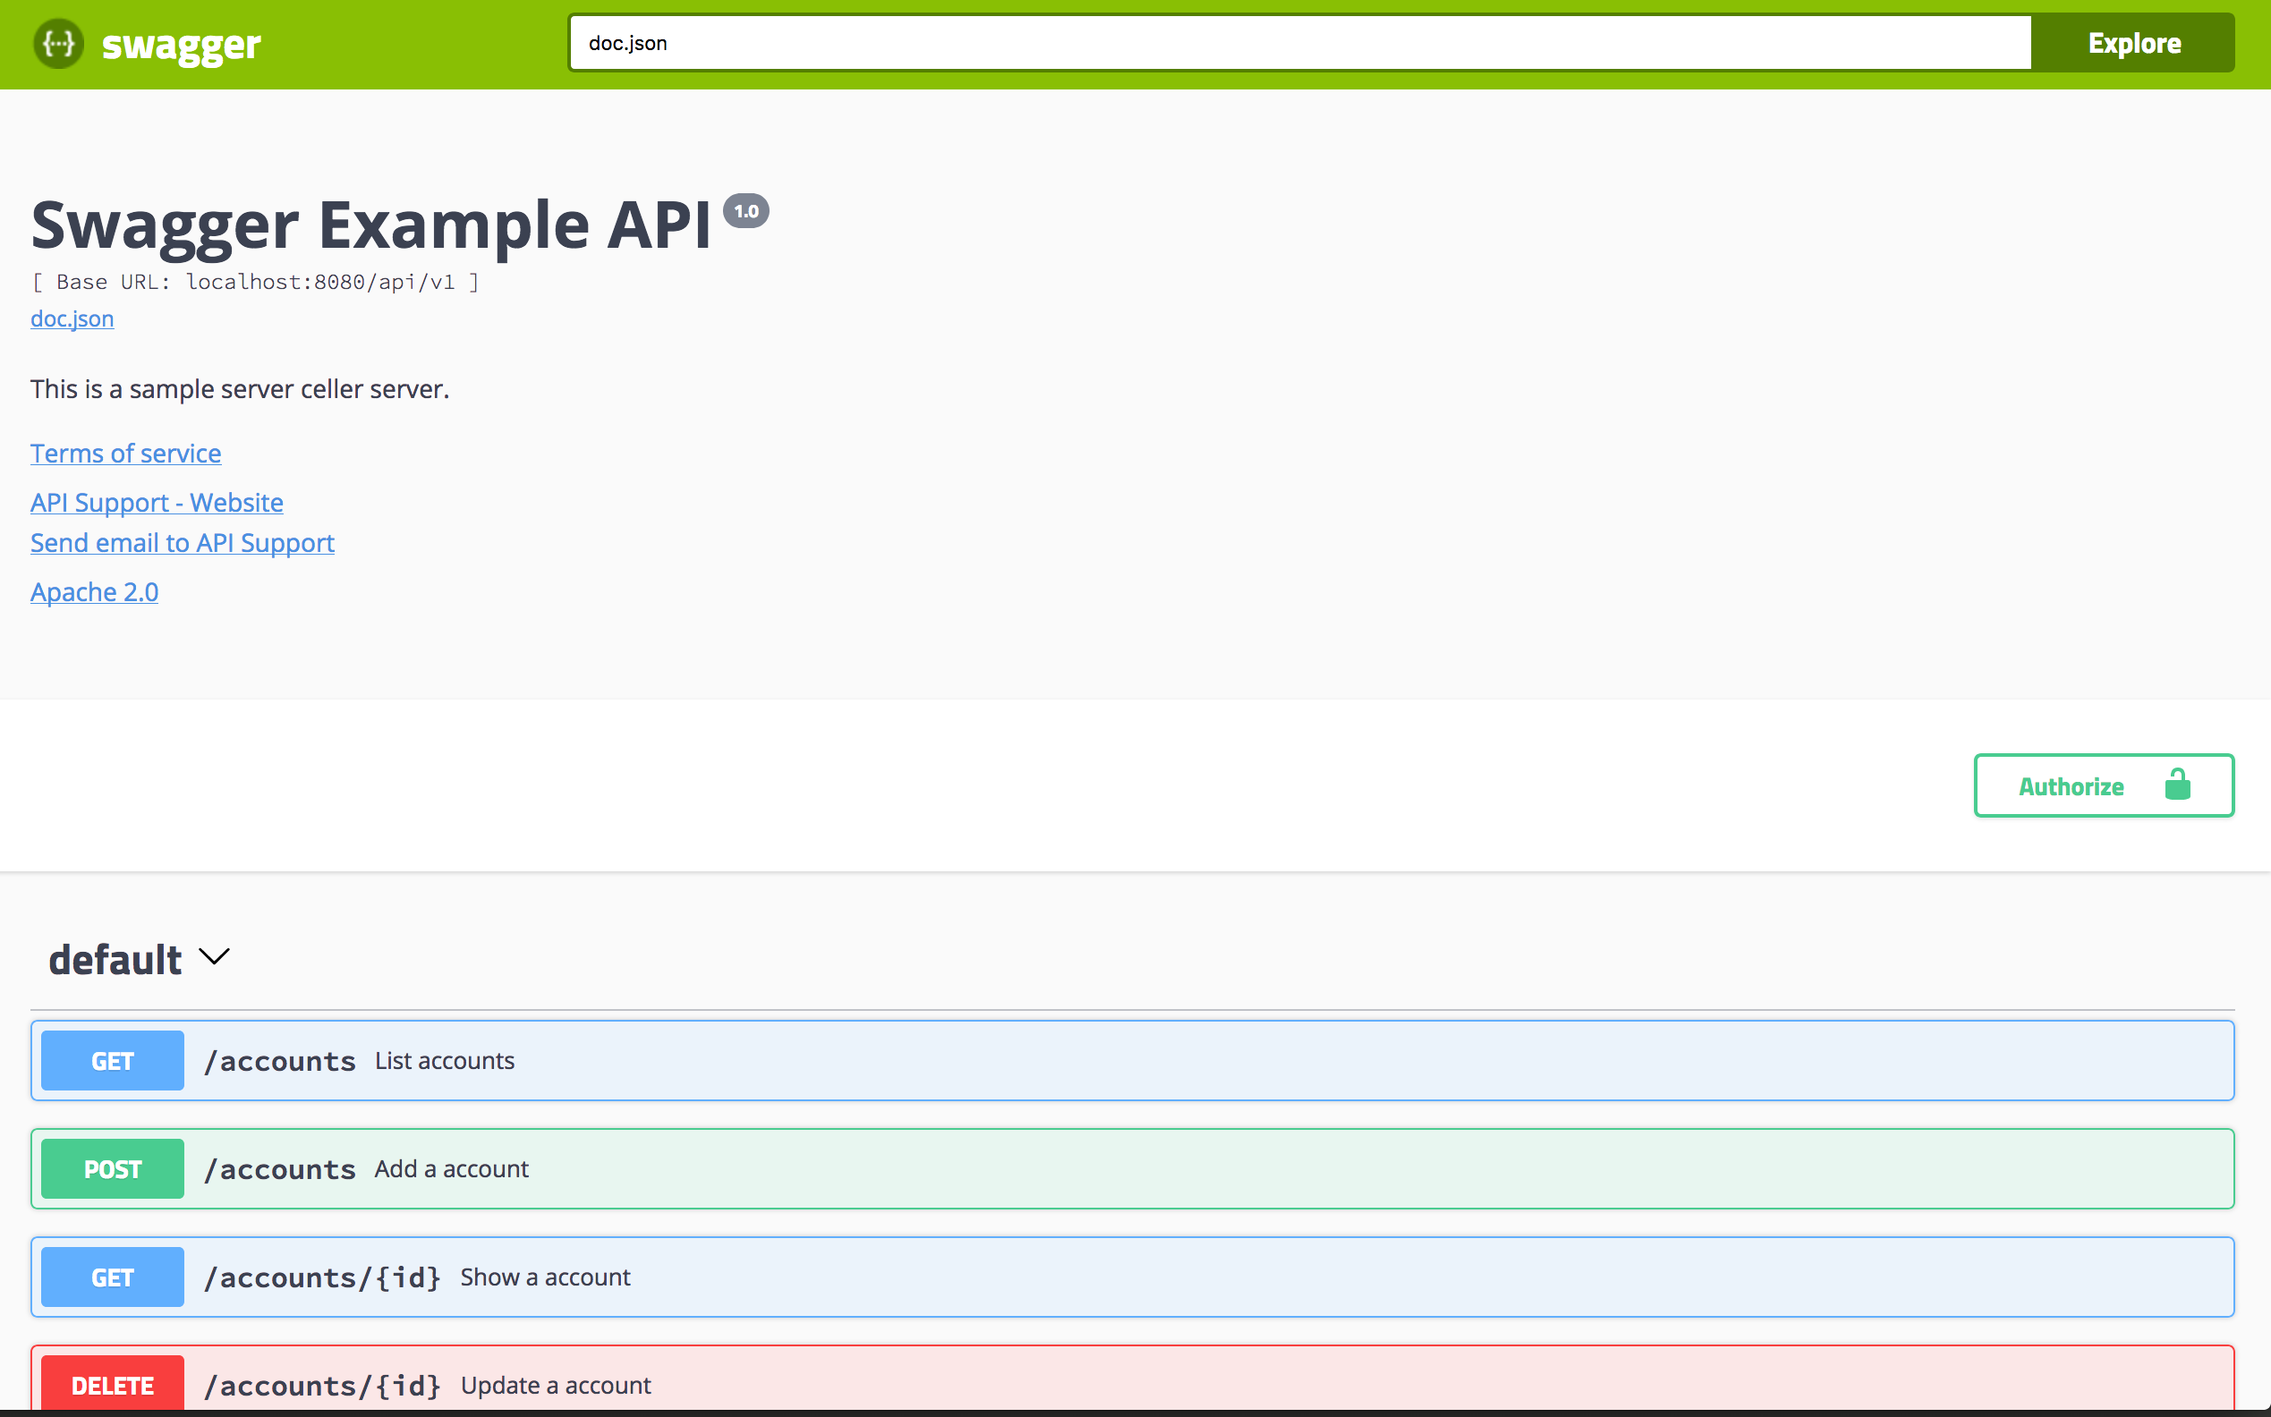
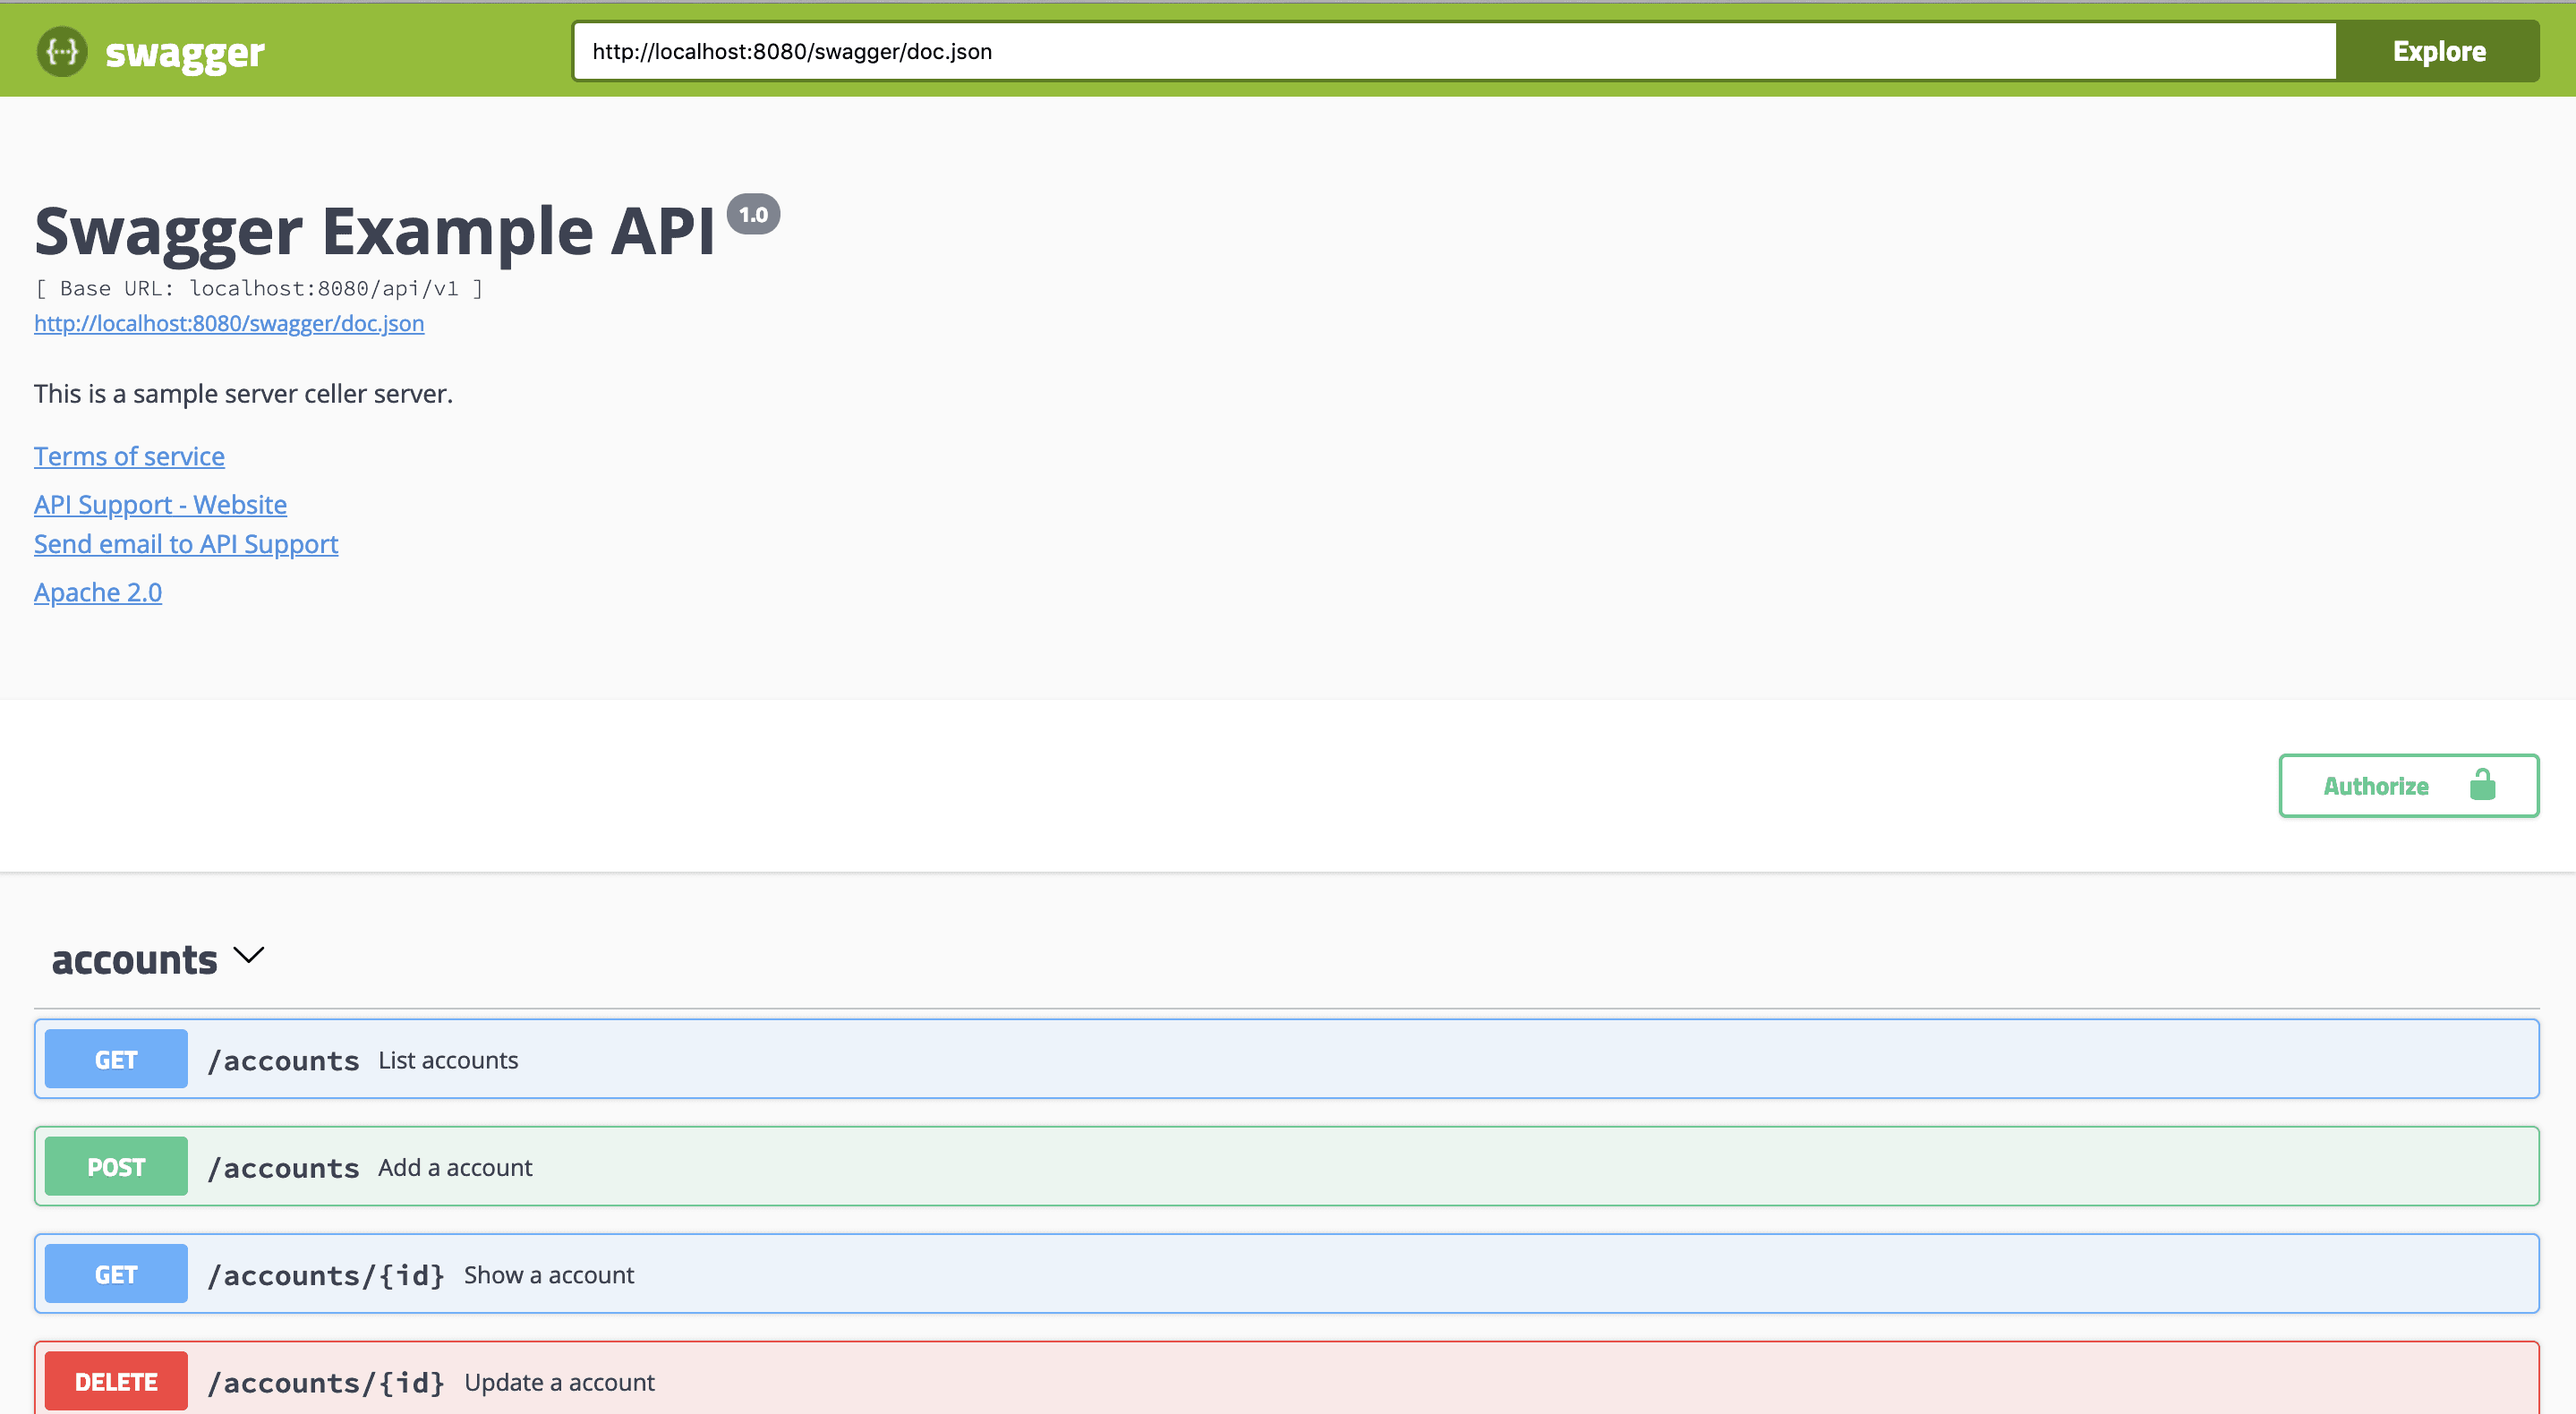
update gin-swagger example doc

diff --git a/example/celler/main.go b/example/celler/main.go
@@ -91,7 +91,10 @@ func main() {
 			examples.GET("attribute", c.AttributeExample)
 		}
 	}
-	r.GET("/swagger/*any", ginSwagger.WrapHandler(swaggerFiles.Handler))
+	config := &ginSwagger.Config{
+		URL: "http://localhost:8080/swagger/doc.json", //The url pointing to API definition
+	}
+	r.GET("/swagger/*any", ginSwagger.WrapHandler(config, swaggerFiles.Handler))
 	r.Run(":8080")
 }
 

diff --git a/README.md b/README.md
@@ -152,7 +152,10 @@ func main() {
 		}
     //...
 	}
-	r.GET("/swagger/*any", ginSwagger.WrapHandler(swaggerFiles.Handler))
+	config := &ginSwagger.Config{
+		URL: "http://localhost:8080/swagger/doc.json", //The url pointing to API definition
+	}
+	r.GET("/swagger/*any", ginSwagger.WrapHandler(config,swaggerFiles.Handler))
 	r.Run(":8080")
 }
 //...
@@ -190,9 +193,11 @@ func main() {
 	docs.SwaggerInfo.BasePath = "/v2"
 
 	r := gin.New()
-
+	config := &ginSwagger.Config{
+		URL: "http://localhost:8080/swagger/doc.json", //The url pointing to API definition
+	}
 	// use ginSwagger middleware to serve the API docs
-	r.GET("/swagger/*any", ginSwagger.WrapHandler(swaggerFiles.Handler))
+	r.GET("/swagger/*any", ginSwagger.WrapHandler(config,swaggerFiles.Handler))
 
 	r.Run()
 }
